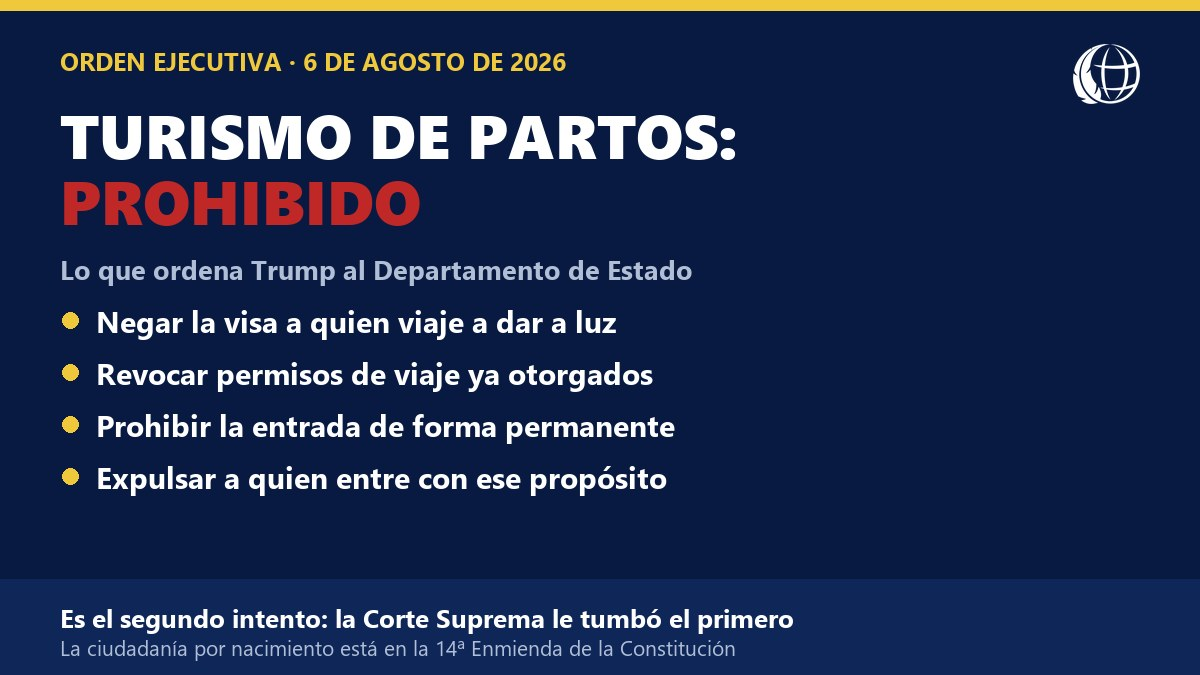
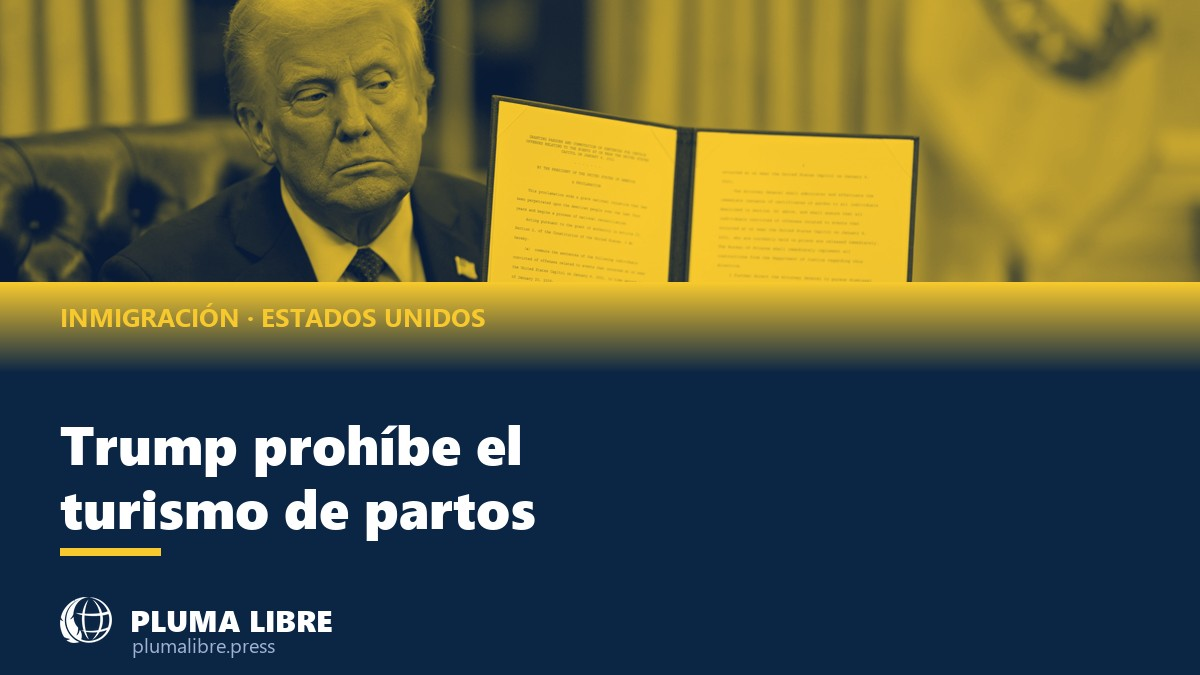
Turismo de partos: arte con foto real en duotono, no placa de solo texto
La version tipografica se veia apagada y no funciona en redes. Se usa el mismo
tratamiento de la placa del TPS: foto en duotono navy/oro + bloque de titular.
Foto oficial de la Casa Blanca (dominio publico, via Wikimedia). Se agrega ademas
la placa 4:5 para el feed.

Claude-Session: https://claude.ai/code/session_017D7bzBttbC5T4HsnunD9EM

diff --git a/articulos/trump-prohibe-turismo-de-partos-orden-ejecutiva.html b/articulos/trump-prohibe-turismo-de-partos-orden-ejecutiva.html
@@ -1,4 +1,4 @@
-<!DOCTYPE html><html lang="es"><head><meta charset="UTF-8"><meta name="viewport" content="width=device-width,initial-scale=1.0"><title>Trump prohíbe el turismo de partos: visa negada y expulsión — Pluma Libre</title><meta name="description" content="La orden ejecutiva manda negar la visa, revocar permisos ya otorgados, prohibir la entrada de forma permanente y expulsar a quien viaje a Estados Unidos con el propósito de dar a luz. Es el segundo intento: la Corte Suprema le tumbó el primero."><meta name="theme-color" content="#081A41"><link rel="canonical" href="https://plumalibre.press/articulos/trump-prohibe-turismo-de-partos-orden-ejecutiva.html"><meta property="og:type" content="article"><meta property="og:title" content="Trump prohíbe el turismo de partos: visa negada y expulsión"><meta property="og:description" content="La orden ejecutiva manda negar la visa, revocar permisos ya otorgados, prohibir la entrada de forma permanente y expulsar a quien viaje a Estados Unidos con el propósito de dar a luz. Es el segundo intento: la Corte Suprema le tumbó el primero."><meta property="og:image" content="https://plumalibre.press/assets/nota-turismo-partos-trump.jpg"><meta property="og:site_name" content="Pluma Libre"><meta property="article:published_time" content="2026-08-07"><script type="application/ld+json">{"@context":"https://schema.org","@type":"NewsArticle","headline":"Trump prohíbe el turismo de partos: visa negada y expulsión","datePublished":"2026-08-07","author":{"@type":"Organization","name":"Pluma Libre"},"publisher":{"@type":"Organization","name":"Pluma Libre","logo":{"@type":"ImageObject","url":"https://plumalibre.press/assets/logo-simbolo.png"}}}</script><script>(function(){try{var p=new URLSearchParams(location.search);if(p.get("pl_no_track")==="1"){localStorage.setItem("pl_no_track","1");history.replaceState({},"",location.pathname+location.hash);}if(p.get("pl_track")==="1"){localStorage.removeItem("pl_no_track");history.replaceState({},"",location.pathname+location.hash);}if(localStorage.getItem("pl_no_track")==="1"){window["ga-disable-G-TZRTJLP5KT"]=true;}}catch(e){}})();</script><script async src="https://www.googletagmanager.com/gtag/js?id=G-TZRTJLP5KT"></script><script>window.dataLayer=window.dataLayer||[];function gtag(){dataLayer.push(arguments);}gtag("js",new Date());gtag("config","G-TZRTJLP5KT");</script><link rel="icon" href="../assets/favicon.ico" sizes="any"><link rel="icon" type="image/png" sizes="32x32" href="../assets/favicon-32x32.png"><link rel="icon" type="image/png" sizes="192x192" href="../assets/favicon-192x192.png"><link rel="apple-touch-icon" href="../assets/apple-touch-icon.png"><link rel="alternate" type="application/rss+xml" title="Pluma Libre" href="/rss.xml"><link rel="manifest" href="/manifest.webmanifest"><meta name="apple-mobile-web-app-capable" content="yes"><meta name="apple-mobile-web-app-status-bar-style" content="black-translucent"><meta name="apple-mobile-web-app-title" content="Pluma Libre"><meta name="mobile-web-app-capable" content="yes"><link rel="preconnect" href="https://fonts.googleapis.com"><link rel="preconnect" href="https://fonts.gstatic.com" crossorigin><link href="https://fonts.googleapis.com/css2?family=Newsreader:opsz,wght@6..72,400;6..72,600;6..72,700&family=Outfit:wght@400;500;600;700&display=swap" rel="stylesheet"><link rel="stylesheet" href="../style.css"></head><body class="article-page"><div class="top-bar"><div class="wrap"><span id="fecha"></span><a href="https://www.facebook.com/plumalibre.press/" target="_blank" rel="noopener" aria-label="Facebook"><svg width="14" height="14" fill="currentColor" viewBox="0 0 24 24"><path d="M24 12.073c0-6.627-5.373-12-12-12s-12 5.373-12 12c0 5.99 4.388 10.954 10.125 11.854v-8.385H7.078v-3.47h3.047V9.43c0-3.007 1.792-4.669 4.533-4.669 1.312 0 2.686.235 2.686.235v2.953H15.83c-1.491 0-1.956.925-1.956 1.874v2.25h3.328l-.532 3.47h-2.796v8.385C19.612 23.027 24 18.062 24 12.073z"/></svg></a></div></div><header class="header"><div class="wrap"><a href="../index.html" class="logo"><img src="../assets/logo-simbolo.png" alt="Pluma Libre" class="logo-simbolo" width="40" height="40"><div class="logo-text"><h1><img src="../assets/logo-wordmark.png" alt="PLUMA LIBRE" class="logo-wordmark"></h1></div></a><button class="menu-btn" id="menuBtn" aria-label="Menú"><span></span><span></span><span></span></button><nav class="nav" id="nav"><ul><li><a href="../index.html">Inicio</a></li><li><a href="../secciones/politico.html">Política</a></li><li><a href="../secciones/economico.html">Economía</a></li><li><a href="../secciones/deportivo.html">Deportes</a></li><li><a href="../secciones/social.html">Social</a></li><li><a href="../secciones/religioso.html">Religión</a></li><li><a href="../secciones/cultural.html">Cultura</a></li><li><a href="../secciones/internacional.html">Internacional</a></li><li><a href="../secciones/opinion.html">Opinión</a></li><li><a href="../secciones/tecnologico.html">Tecnología</a></li><li><a href="../secciones/entrevistas.html">Entrevistas</a></li><li><a href="../sobre-nosotros.html">Nosotros</a></li></ul></nav></div></header><main><div class="wrap"><div class="article-header"><span class="badge badge-brand">Internacional</span><h1>Trump prohíbe el turismo de partos: visa negada y expulsión</h1><p class="subtitle">La orden ejecutiva manda negar la visa, revocar permisos ya otorgados, prohibir la entrada de forma permanente y expulsar a quien viaje a Estados Unidos con el propósito de dar a luz. Es el segundo intento: la Corte Suprema le tumbó el primero.</p><div class="article-meta"><strong>Por Pluma Libre</strong> · 7 de agosto, 2026 · Redacción</div></div><figure class="article-img"><img src="../assets/nota-turismo-partos-trump.jpg" alt="Las cuatro medidas de la orden ejecutiva contra el turismo de partos firmada por Trump el 6 de agosto de 2026" loading="eager"><figcaption>Lo que ordena el decreto «Ending Birth Tourism». Gráfico: Pluma Libre.</figcaption></figure><div class="article-body"><p><strong>WASHINGTON.</strong> Donald Trump firmó este jueves una orden ejecutiva que prohíbe el llamado <strong>turismo de partos</strong>: viajar a Estados Unidos con visa de turista para dar a luz y que el bebé nazca estadounidense.</p>
+<!DOCTYPE html><html lang="es"><head><meta charset="UTF-8"><meta name="viewport" content="width=device-width,initial-scale=1.0"><title>Trump prohíbe el turismo de partos: visa negada y expulsión — Pluma Libre</title><meta name="description" content="La orden ejecutiva manda negar la visa, revocar permisos ya otorgados, prohibir la entrada de forma permanente y expulsar a quien viaje a Estados Unidos con el propósito de dar a luz. Es el segundo intento: la Corte Suprema le tumbó el primero."><meta name="theme-color" content="#081A41"><link rel="canonical" href="https://plumalibre.press/articulos/trump-prohibe-turismo-de-partos-orden-ejecutiva.html"><meta property="og:type" content="article"><meta property="og:title" content="Trump prohíbe el turismo de partos: visa negada y expulsión"><meta property="og:description" content="La orden ejecutiva manda negar la visa, revocar permisos ya otorgados, prohibir la entrada de forma permanente y expulsar a quien viaje a Estados Unidos con el propósito de dar a luz. Es el segundo intento: la Corte Suprema le tumbó el primero."><meta property="og:image" content="https://plumalibre.press/assets/nota-turismo-partos-trump.jpg"><meta property="og:site_name" content="Pluma Libre"><meta property="article:published_time" content="2026-08-07"><script type="application/ld+json">{"@context":"https://schema.org","@type":"NewsArticle","headline":"Trump prohíbe el turismo de partos: visa negada y expulsión","datePublished":"2026-08-07","author":{"@type":"Organization","name":"Pluma Libre"},"publisher":{"@type":"Organization","name":"Pluma Libre","logo":{"@type":"ImageObject","url":"https://plumalibre.press/assets/logo-simbolo.png"}}}</script><script>(function(){try{var p=new URLSearchParams(location.search);if(p.get("pl_no_track")==="1"){localStorage.setItem("pl_no_track","1");history.replaceState({},"",location.pathname+location.hash);}if(p.get("pl_track")==="1"){localStorage.removeItem("pl_no_track");history.replaceState({},"",location.pathname+location.hash);}if(localStorage.getItem("pl_no_track")==="1"){window["ga-disable-G-TZRTJLP5KT"]=true;}}catch(e){}})();</script><script async src="https://www.googletagmanager.com/gtag/js?id=G-TZRTJLP5KT"></script><script>window.dataLayer=window.dataLayer||[];function gtag(){dataLayer.push(arguments);}gtag("js",new Date());gtag("config","G-TZRTJLP5KT");</script><link rel="icon" href="../assets/favicon.ico" sizes="any"><link rel="icon" type="image/png" sizes="32x32" href="../assets/favicon-32x32.png"><link rel="icon" type="image/png" sizes="192x192" href="../assets/favicon-192x192.png"><link rel="apple-touch-icon" href="../assets/apple-touch-icon.png"><link rel="alternate" type="application/rss+xml" title="Pluma Libre" href="/rss.xml"><link rel="manifest" href="/manifest.webmanifest"><meta name="apple-mobile-web-app-capable" content="yes"><meta name="apple-mobile-web-app-status-bar-style" content="black-translucent"><meta name="apple-mobile-web-app-title" content="Pluma Libre"><meta name="mobile-web-app-capable" content="yes"><link rel="preconnect" href="https://fonts.googleapis.com"><link rel="preconnect" href="https://fonts.gstatic.com" crossorigin><link href="https://fonts.googleapis.com/css2?family=Newsreader:opsz,wght@6..72,400;6..72,600;6..72,700&family=Outfit:wght@400;500;600;700&display=swap" rel="stylesheet"><link rel="stylesheet" href="../style.css"></head><body class="article-page"><div class="top-bar"><div class="wrap"><span id="fecha"></span><a href="https://www.facebook.com/plumalibre.press/" target="_blank" rel="noopener" aria-label="Facebook"><svg width="14" height="14" fill="currentColor" viewBox="0 0 24 24"><path d="M24 12.073c0-6.627-5.373-12-12-12s-12 5.373-12 12c0 5.99 4.388 10.954 10.125 11.854v-8.385H7.078v-3.47h3.047V9.43c0-3.007 1.792-4.669 4.533-4.669 1.312 0 2.686.235 2.686.235v2.953H15.83c-1.491 0-1.956.925-1.956 1.874v2.25h3.328l-.532 3.47h-2.796v8.385C19.612 23.027 24 18.062 24 12.073z"/></svg></a></div></div><header class="header"><div class="wrap"><a href="../index.html" class="logo"><img src="../assets/logo-simbolo.png" alt="Pluma Libre" class="logo-simbolo" width="40" height="40"><div class="logo-text"><h1><img src="../assets/logo-wordmark.png" alt="PLUMA LIBRE" class="logo-wordmark"></h1></div></a><button class="menu-btn" id="menuBtn" aria-label="Menú"><span></span><span></span><span></span></button><nav class="nav" id="nav"><ul><li><a href="../index.html">Inicio</a></li><li><a href="../secciones/politico.html">Política</a></li><li><a href="../secciones/economico.html">Economía</a></li><li><a href="../secciones/deportivo.html">Deportes</a></li><li><a href="../secciones/social.html">Social</a></li><li><a href="../secciones/religioso.html">Religión</a></li><li><a href="../secciones/cultural.html">Cultura</a></li><li><a href="../secciones/internacional.html">Internacional</a></li><li><a href="../secciones/opinion.html">Opinión</a></li><li><a href="../secciones/tecnologico.html">Tecnología</a></li><li><a href="../secciones/entrevistas.html">Entrevistas</a></li><li><a href="../sobre-nosotros.html">Nosotros</a></li></ul></nav></div></header><main><div class="wrap"><div class="article-header"><span class="badge badge-brand">Internacional</span><h1>Trump prohíbe el turismo de partos: visa negada y expulsión</h1><p class="subtitle">La orden ejecutiva manda negar la visa, revocar permisos ya otorgados, prohibir la entrada de forma permanente y expulsar a quien viaje a Estados Unidos con el propósito de dar a luz. Es el segundo intento: la Corte Suprema le tumbó el primero.</p><div class="article-meta"><strong>Por Pluma Libre</strong> · 7 de agosto, 2026 · Redacción</div></div><figure class="article-img"><img src="../assets/nota-turismo-partos-trump.jpg" alt="Donald Trump muestra una orden ejecutiva firmada en la Oficina Oval" loading="eager"><figcaption>Trump muestra una orden ejecutiva firmada en la Oficina Oval. Foto: Casa Blanca (dominio público).</figcaption></figure><div class="article-body"><p><strong>WASHINGTON.</strong> Donald Trump firmó este jueves una orden ejecutiva que prohíbe el llamado <strong>turismo de partos</strong>: viajar a Estados Unidos con visa de turista para dar a luz y que el bebé nazca estadounidense.</p>
 
 <p>El decreto se llama <strong>«Ending Birth Tourism»</strong> y le ordena al Departamento de Estado y al de Seguridad Nacional cuatro cosas:</p>
 
